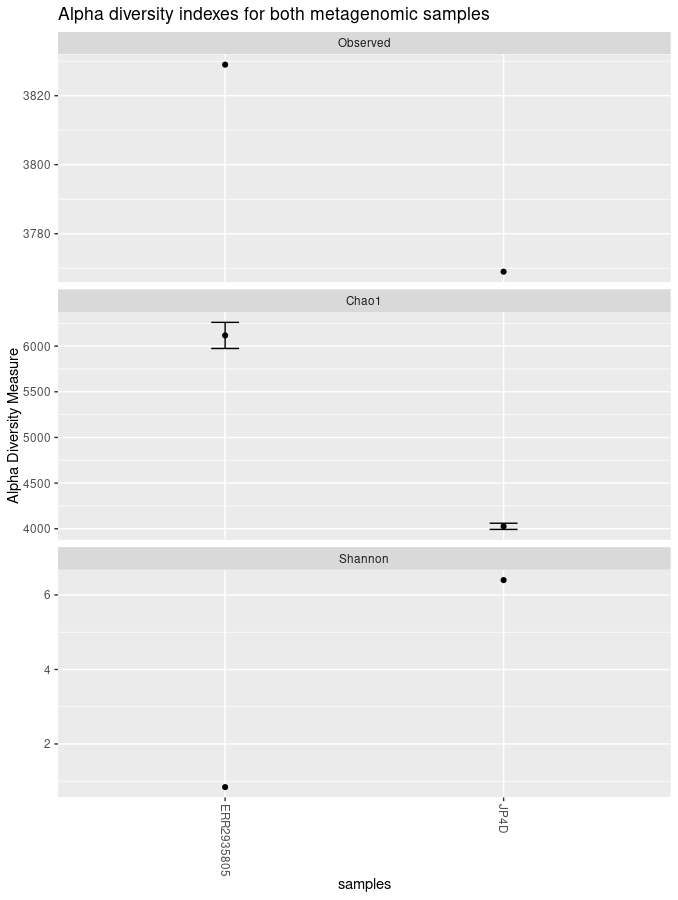
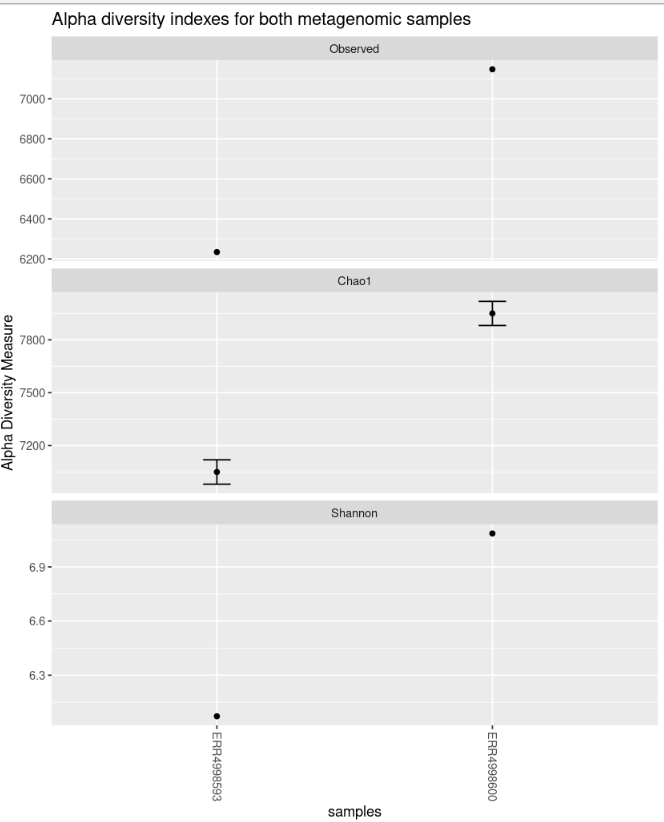
Update R diversity pt 1 with new data/outputs/plots

diff --git a/_episodes/02-Diversity-tackled-with-R.md b/_episodes/02-Diversity-tackled-with-R.md
@@ -298,7 +298,7 @@ biom_metagenome <- import_biom("metagenome.biom")
 ~~~
 {: .language-r}
 
-This command produces no output in the console but created a special class of R object which is defined by the `phloseq` package and called it `biom_metagenome`. Click on the object name, biom_metagenome, in the Environment pane (top right).  This will open a view of the object in the same pane as your script.
+This command produces no output in the console but created a special class of R object which is defined by the `phyloseq` package and called it `biom_metagenome`. Click on the object name, biom_metagenome, in the Environment pane (top right).  This will open a view of the object in the same pane as your script.
 
 A phyloseq object is a special object in R. It has five parts, called 'slots' which you can see listed in the object view. These are `otu_table`, `tax_table`, `sam_data`, `phy_tree` and `refseq`. In our case, `sam_data`, `phy_tree` and `refseq` are empty. The useful data are in otu_table` and `tax_table`.
 
@@ -315,12 +315,12 @@ biom_metagenome
 
 ~~~
 phyloseq-class experiment-level object
-otu_table()   OTU Table:         [ 5905 taxa and 2 samples ]
-tax_table()   Taxonomy Table:    [ 5905 taxa by 7 taxonomic ranks ]
+otu_table()   OTU Table:         [ 7637 taxa and 2 samples ]
+tax_table()   Taxonomy Table:    [ 7637 taxa by 7 taxonomic ranks ]
 ~~~
 {: .output}
 
-The line starting `otu_table` tells us we have two samples - these are ERR4998593 and JP4D - with a total of 5905 taxa. The `tax_table` again tells us how many taxa wwe have. The seven ranks indicates that we have some identifications down to species level. The taxonomic ranks are from the classification system of taxa from the most general (kingdom) to the most specific (species): kingdom/domain, phylum, class, order, family, genus, species.
+The line starting `otu_table` tells us we have two samples - these are ERR4998593 and ERR4998600 - with a total of 7637 taxa. The `tax_table` again tells us how many taxa wwe have. The seven ranks indicates that we have some identifications down to species level. The taxonomic ranks are from the classification system of taxa from the most general (kingdom) to the most specific (species): kingdom/domain, phylum, class, order, family, genus, species.
 
 We can view the `tax_table` with:
 ~~~
@@ -347,7 +347,7 @@ biom_metagenome@tax_table <- substring(biom_metagenome@tax_table, 4)
 ~~~
 {: .language-r}                                   
 
-And change the names of the columns
+Let's change the names of the columns too:
 ~~~                                   
 colnames(biom_metagenome@tax_table) <- c("Kingdom",
            "Phylum",
@@ -385,12 +385,12 @@ biom_metagenome@tax_table %>%
 
 ~~~
 # A tibble: 4 × 2
-Kingdom       n
-<chr>     <int>
-1 Archaea      67
-2 Bacteria   5808
+  Kingdom       n
+  <chr>     <int>
+1 Archaea     339
+2 Bacteria   7231
 3 Eukaryota     1
-4 Viruses      29
+4 Viruses      66
 ~~~
 {: .output}
 Most things are bacteria!  
@@ -411,8 +411,9 @@ biom_metagenome@tax_table %>%
 ~~~
 {: .language-r}
 
-This shows us a table with a phylum, and the number times it appeared, in each row. The number of phyla is given by the number of rows in this table.  By defualt, the table is sorted alphabetically by phylum. We can sort by frequency by clicking on the 'n' column. There are 2743 Proteobacteria and 1050 Actinobacteria for example.
-<img src="{{ page.root }}/fig/03-02-phyla-freq-table.png" alt="Two views of the phyla frequency table: sorted alphabetically by phylum on the left and by the number of OTUs (n) in each phylum on the right" /> 
+This shows us a table with a phylum, and the number times it appeared, in each row. The number of phyla is given by the number of rows in this table.  By defualt, the table is sorted alphabetically by phylum. We can sort by frequency by clicking on the 'n' column. There are 3471 Proteobacteria and 1571 Actinobacteria for example.
+
+<img src="{{ page.root }}/fig/03_02_phyla_freq_table.png" alt="Two views of the phyla frequency table: sorted alphabetically by phylum on the left and by the number of OTUs (n) in each phylum on the right" /> 
   
 
 > ## Exercise 2: Explore the Orders
@@ -432,16 +433,16 @@ This shows us a table with a phylum, and the number times it appeared, in each r
 >> ~~~
 >> {: .language-r}
 >>    
->> a) 204. This is the number of rows in the table  
->> b) Bacillales. Sorting the column n will bring this to the top. Bacillales appears 456 times  
->> c) 32. If an OTU has not been identified to order level the order column will be blank. The table shows there were 32 such cases.  
+>> a) 229. This is the number of rows in the table  
+>> b) Hyphomicrobiales. Sorting the column n will bring this to the top. Hyphomicrobiales appears 480 times  
+>> c) 66. If an OTU has not been identified to order level the order column will be blank. The table shows there were 66 such cases (you can find this more easily by sorting the column Order).  
 >> 
 > {: .solution}
 {: .challenge}
 
 ## Plot alpha diversity
 
-We want to know how is the bacterial diversity of our samples, so we will remove all of the non-bacterial organiss. To do this we will generate a subset of all bacterial groups and save them.
+We want to explore the bacterial diversity of our samples, so we will remove all of the non-bacterial organisms. To do this we will generate a subset of all bacterial groups and save them.
 ~~~
 bac_biom_metagenome <- subset_taxa(biom_metagenome, Kingdom == "Bacteria")
 ~~~
@@ -455,8 +456,8 @@ bac_biom_metagenome
 {: .language-r}
 ~~~
 phyloseq-class experiment-level object
-otu_table()   OTU Table:         [ 5808 taxa and 2 samples ]
-tax_table()   Taxonomy Table:    [ 5808 taxa by 7 taxonomic ranks ]
+otu_table()   OTU Table:         [ 7231 taxa and 2 samples ]
+tax_table()   Taxonomy Table:    [ 7231 taxa by 7 taxonomic ranks ]
 ~~~
 {: .output}
 
@@ -468,10 +469,9 @@ sample_names(bac_biom_metagenome)
 ~~~
 {: .language-r}
 ~~~
-"ERR4998593" "JP4D"  
+"ERR4998593" "ERR4998600"  
 ~~~
 {: .output} 
-  
   
 Count the number of reads with `sample_sums()`:  
 ~~~
@@ -479,8 +479,8 @@ sample_sums(bac_biom_metagenome)
 ~~~
 {: .language-r}
 ~~~
-  ERR4998593    JP4D
-  38057090      149590
+ERR4998593 ERR4998600 
+    442490     305135
 ~~~
 {: .output}
 
@@ -490,17 +490,17 @@ summary(bac_biom_metagenome@otu_table)
 ~~~
 {: .language-r}
 ~~~
-ERR4998593            JP4D        
-Min.   :       0   Min.   :   0.00  
-1st Qu.:       0   1st Qu.:   0.00  
-Median :       1   Median :   3.00  
-Mean   :    6553   Mean   :  25.76  
-3rd Qu.:       2   3rd Qu.:  13.00  
-Max.   :28925791   Max.   :6551.00  
+ ERR4998593         ERR4998600     
+Min.   :    0.00   Min.   :    0.0  
+1st Qu.:    1.00   1st Qu.:    2.0  
+Median :    6.00   Median :   11.0  
+Mean   :   61.19   Mean   :   42.2  
+3rd Qu.:   31.50   3rd Qu.:   38.0  
+Max.   :60679.00   Max.   :38768.0   
 ~~~
 {: .output}
 
-The median in sample ERR4998593 is 1, meaning many of OTU occur only once and the maximum is very high so at least one OUT is very abundant.
+The median in sample ERR4998593 is 6, meaning many of OTU occur six times. The maximum is very high so at least one OTU is very abundant.
   
 The `plot_richness()` command will give us a visual representation of the diversity inside the samples (i.e. α diversity): 
 ~~~
@@ -565,7 +565,7 @@ Use the following to open the manual page for plot_richness
 >> <img src="{{ page.root }}/fig/03_02_plot_rich3.png" alt="Alpha diversity indexes for both samples horizontal with title" />
 >> </a>
 >>
->> The "sortby" option orders the samples from least to greatest diversity depending on the parameter. In this case, it is ordered by "Shannon" and tells us that the JP4D sample has the lowest diversity and the JP41 sample the highest.
+>> The "sortby" option orders the samples from least to greatest diversity depending on the parameter. In this case, it is ordered by "Shannon" and tells us that the ERR4998593 sample has the lowest diversity and the ERR4998600 sample the highest.
 >> ~~~
 >> plot_richness(physeq = bac_biom_metagenome,
 >>              title = "Alpha diversity indexes for both metagenomic samples",
@@ -583,15 +583,38 @@ Use the following to open the manual page for plot_richness
 
 ## Beta diversity
 
-The β diversity between ERR4998593 and JP4D can be calculated with the `distance()` function. For example, we can 
+The β diversity between ERR4998593 and ERR4998600 can be calculated with the `distance()` function. For example, we can 
 find the Bray–Curtis dissimilarity with:
 ~~~
 distance(bac_biom_metagenome, method="bray")
 ~~~
 {: .language-r}
 ~~~
-     ERR4998593
-JP4D  0.9996153
+           ERR4998593
+ERR4998600  0.5438328
+~~~
+{: .output}
+
+There are other methods of determining distance and we can view our options with:
+~~~
+distanceMethodList$vegdist
+~~~
+{: .language-r}
+~~~
+[1] "manhattan"  "euclidean"  "canberra"   "bray"       "kulczynski" "jaccard"    "gower"     
+[8] "altGower"   "morisita"   "horn"       "mountford"  "raup"       "binomial"   "chao"      
+[15] "cao"
+~~~
+{: .output}
+
+Any of these methods can be used in the same way used above, e.g.
+~~~
+distance(bac_biom_metagenome, method="jaccard")
+~~~
+{: .language-r}
+~~~
+           ERR4998593
+ERR4998600  0.7045229
 ~~~
 {: .output}
 

diff --git a/_episodes/03-hands_on-diversity.md b/_episodes/03-hands_on-diversity.md
@@ -20,7 +20,7 @@ keypoints:
 
 ## Reminder 
 In the last lesson, we created our phyloseq object, which contains the information
-of our samples: `ERR4998593` and `JP4D`. Let´s take a look again at the
+of our samples: `ERR4998593` and `ERR4998600`. Let´s take a look again at the
  number of reads in our data.  
 
 For the whole metagenome:
@@ -36,7 +36,7 @@ phyloseq-class experiment-level object
 otu_table()   OTU Table:         [ 5905 taxa and 2 samples ]  
 tax_table()   Taxonomy Table:    [ 5905 taxa by 7 taxonomic ranks ]  
 
-ERR4998593       JP4D   
+ERR4998593       ERR4998600   
   38058101     149590   
 ~~~
 {: .output}
@@ -58,7 +58,7 @@ ERR4998593       JP4D
 >> otu_table()   OTU Table:         [ 5808 taxa and 2 samples ]
 >> tax_table()   Taxonomy Table:    [ 5808 taxa by 7 taxonomic ranks ]
 >> 
->>   ERR4998593       JP4D
+>>   ERR4998593       ERR4998600
 >>     38057090     149590
 >> ~~~
 >> {: .output}
@@ -112,7 +112,7 @@ Clicking on `number_of_taxa` on the Environment window will open a spreadsheet-l
 This shows us that we have some phyla:
   - present in both samples such as Acidobacteria and Actinobacteria
   - present in just ERR4998593 such as Candidatus Bipolaricaulota
-  - and present in just JP4D such as Calditrichaeota
+  - and present in just ERR4998600 such as Calditrichaeota
 
 One way to visualise the number of shared phyla is with a Venn diagram. The package `ggvenn` will draw one for us. It needs a data structure called a list which will contain an item for each sample of the phyla in that sample. We can see the phyla in the ERR4998593 sample with:
 
@@ -137,11 +137,11 @@ unique(number_of_taxa$Phylum[number_of_taxa$Sample == "ERR4998593"])
 
 > ## Exercise 2
 >
-> Repeat this for the JP4D sample
+> Repeat this for the ERR4998600 sample
 >> ## Solution
->> Use JP4D instead of ERR4998593
+>> Use ERR4998600 instead of ERR4998593
 >> ~~~
->> unique(number_of_taxa$Phylum[number_of_taxa$Sample == "JP4D"])
+>> unique(number_of_taxa$Phylum[number_of_taxa$Sample == "ERR4998600"])
 >> ~~~
 >> {: .language-r}
 >>
@@ -167,7 +167,7 @@ unique(number_of_taxa$Phylum[number_of_taxa$Sample == "ERR4998593"])
 To place the two sets of phlya in a list, we use
 ~~~
 venn_data <- list(ERR4998593 = unique(number_of_taxa$Phylum[number_of_taxa$Sample == "ERR4998593"]),
-                  JP4D = unique(number_of_taxa$Phylum[number_of_taxa$Sample == "JP4D"]))
+                  ERR4998600 = unique(number_of_taxa$Phylum[number_of_taxa$Sample == "ERR4998600"]))
 ~~~
 {: .language-r}  
 
@@ -181,11 +181,11 @@ ggvenn(venn_data)
 <a href="{{ page.root }}/fig/03_03_phlya_venn.png">
   <img src="{{ page.root }}/fig/03_03_phlya_venn.png" alt="venn diagram for the phyla in the two sample." />
 </a>
-The Venn diagram shows that most of the phyla (29 which is 80.6%) are in both samples, one is in ERR4998593 only and 6 are in JP4D only. 
+The Venn diagram shows that most of the phyla (29 which is 80.6%) are in both samples, one is in ERR4998593 only and 6 are in ERR4998600 only. 
 Perhaps you would like to know which phyla is in ERR4998593 only? The following command will print that for us:
 
 ~~~
-venn_data$ERR4998593[!venn_data$ERR4998593 %in% venn_data$JP4D]
+venn_data$ERR4998593[!venn_data$ERR4998593 %in% venn_data$ERR4998600]
 ~~~
 {: .language-r}  
 
@@ -197,11 +197,11 @@ venn_data$ERR4998593[!venn_data$ERR4998593 %in% venn_data$JP4D]
 
 > ## Exercise 3
 >
-> Which phyla are in JP4D only?
+> Which phyla are in ERR4998600 only?
 >> ## Solution
->> Use JP4D instead of ERR4998593 and ERR4998593 instead of JP4D!
+>> Use ERR4998600 instead of ERR4998593 and ERR4998593 instead of ERR4998600!
 >> ~~~
->> venn_data$JP4D[!venn_data$JP4D %in% venn_data$ERR4998593]
+>> venn_data$ERR4998600[!venn_data$ERR4998600 %in% venn_data$ERR4998593]
 >> ~~~
 >> {: .language-r}
 >>
@@ -244,7 +244,7 @@ abundance_of_taxa %>%
   <img src="{{ page.root }}/fig/03_03_abs_phyl_plot.png" alt="Plot of the absolute abundance of each Phylum in the two samples." />
 </a>
 
-We can see that the most abundant phyla in ERR4998593 are Proteobacteria and Firmicutes. However, we can't tell much from JP4D because the total number of reds is so much less.
+We can see that the most abundant phyla in ERR4998593 are Proteobacteria and Firmicutes. However, we can't tell much from ERR4998600 because the total number of reds is so much less.
 
 ## Transformation of data
 
